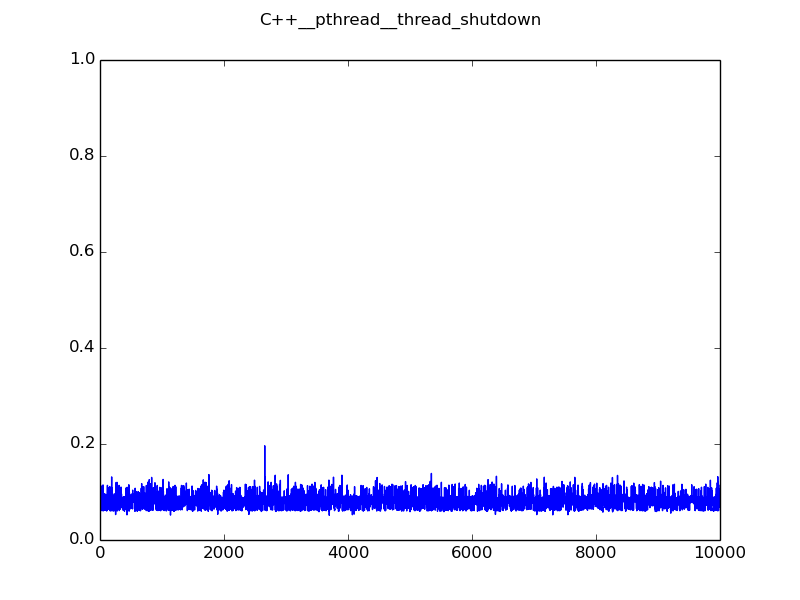
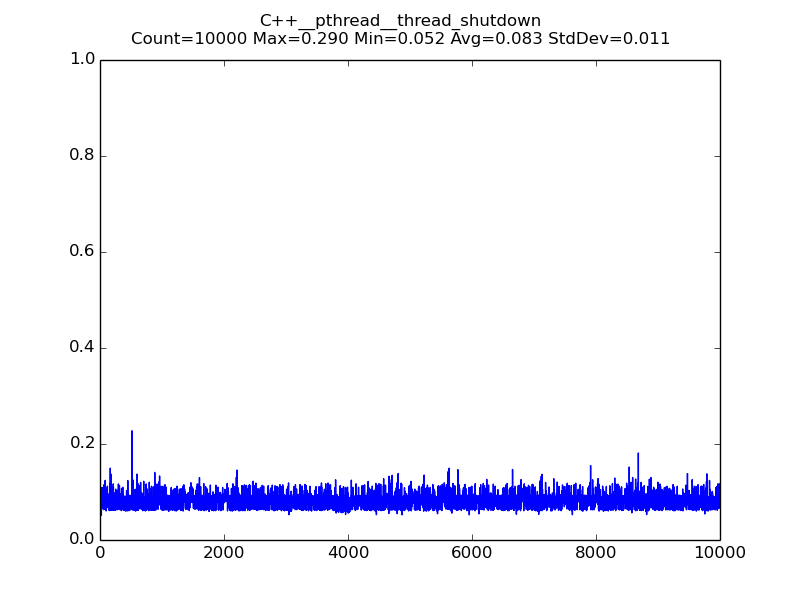
Changed main table in markdown to just show the graph.  Graph now has the min/max/avg/stddev embedded in it.

Changed region(s): [[0.125, 0.78, 0.9062, 0.87], [0.1562, 0.03, 0.8438, 0.09]]

diff --git a/src/outputparser.py b/src/outputparser.py
@@ -52,6 +52,7 @@ class Data:
 		
 	def toJSON( self ):	
 		return {
+			'uniqueName': self.uniqueName( ),
 			'language': self.lang,
 			'library': self.lib,
 			'name': self.name,
@@ -64,8 +65,11 @@ class Data:
 			}
 		
 	def graphData( self ):
+		title = '{}\nCount={} Max={:.3f} Min={:.3f} Avg={:.3f} StdDev={:.3f}'.format( self.uniqueName( ), 
+			self.cnt( ), self.max( ), self.min( ), self.avg( ), self.std( ) )
+	
 		fig, ax = plt.subplots( nrows=1, ncols=1 )
-		fig.suptitle( self.uniqueName( ) )
+		fig.suptitle( title )
 		ax.set_ylim( 0, 1 )
 		ax.plot( self.nonZeroData( ) )
 		fig.savefig( self.graphFileName( ) )
@@ -101,14 +105,15 @@ def createMarkdown( jsonFileName, markdownFileName, markdownHeaderFileName, grap
 		f.write( '\n' )
 		f.write( '# Data' )
 		f.write( '\n' )
-		f.write( '|Language|Library|Type|Count|Max|Min|Average|Std Dev|Graph|\n' )
-		f.write( '|--------|-------|----|-----|---|---|-------|-------|-----|\n' )
+		f.write( '|Description|Graph|\n' )
+		f.write( '|-----------|-----|\n' )
 		for key in sorted( jsonData ):
 			data = jsonData[ key ]
-			f.write( '|{}|{}|{}|{}|{:.3f}|{:.3f}|{:.3f}|{:.3f}|{}|\n'.format(
-				data[ 'language' ], data[ 'library' ], data[ 'name' ],
-				data[ 'count' ], data[ 'max' ], data[ 'min' ], data[ 'avg' ], data[ 'std' ], 
-				'[Graph]({})'.format( os.path.relpath( data[ 'graph' ], os.path.dirname( markdownFileName ) ) ) ) )
+			
+			description = '{} - {} - {}'.format( data[ 'language' ], data[ 'library' ], data[ 'name' ] )
+			graph = '![{}]({})'.format( data[ 'uniqueName' ], os.path.relpath( data[ 'graph' ], os.path.dirname( markdownFileName ) ) )
+			
+			f.write( '|{}|{}|\n'.format( description, graph ) )
 
 				
 def main( ):

diff --git a/README.md b/README.md
@@ -27,13 +27,13 @@ For each one, the following information is listed:
 * Details on the timing of the results.
 
 # Data
-|Language|Library|Type|Count|Max|Min|Average|Std Dev|Graph|
-|--------|-------|----|-----|---|---|-------|-------|-----|
-|C|pthread|thread_shutdown|10000|1.130|0.053|0.084|0.015|[Graph](img/C__pthread__thread_shutdown.png)|
-|C|pthread|thread_start|10000|0.396|0.073|0.089|0.010|[Graph](img/C__pthread__thread_start.png)|
-|C++|pthread|thread_shutdown|10000|0.288|0.051|0.083|0.011|[Graph](img/CPP__pthread__thread_shutdown.png)|
-|C++|pthread|thread_start|10000|0.458|0.074|0.090|0.011|[Graph](img/CPP__pthread__thread_start.png)|
-|C++|std::async|thread_shutdown|10000|0.074|0.012|0.021|0.005|[Graph](img/CPP__stdasync__thread_shutdown.png)|
-|C++|std::async|thread_start|10000|0.254|0.009|0.009|0.004|[Graph](img/CPP__stdasync__thread_start.png)|
-|C++|std::thread|thread_shutdown|10000|0.431|0.057|0.087|0.011|[Graph](img/CPP__stdthread__thread_shutdown.png)|
-|C++|std::thread|thread_start|10000|0.249|0.078|0.092|0.010|[Graph](img/CPP__stdthread__thread_start.png)|
+|Description|Graph|
+|-----------|-----|
+|C - pthread - thread_shutdown|![C__pthread__thread_shutdown](img/C__pthread__thread_shutdown.png)|
+|C - pthread - thread_start|![C__pthread__thread_start](img/C__pthread__thread_start.png)|
+|C++ - pthread - thread_shutdown|![C++__pthread__thread_shutdown](img/CPP__pthread__thread_shutdown.png)|
+|C++ - pthread - thread_start|![C++__pthread__thread_start](img/CPP__pthread__thread_start.png)|
+|C++ - std::async - thread_shutdown|![C++__std::async__thread_shutdown](img/CPP__stdasync__thread_shutdown.png)|
+|C++ - std::async - thread_start|![C++__std::async__thread_start](img/CPP__stdasync__thread_start.png)|
+|C++ - std::thread - thread_shutdown|![C++__std::thread__thread_shutdown](img/CPP__stdthread__thread_shutdown.png)|
+|C++ - std::thread - thread_start|![C++__std::thread__thread_start](img/CPP__stdthread__thread_start.png)|
